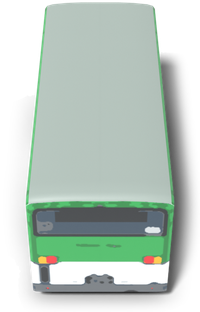
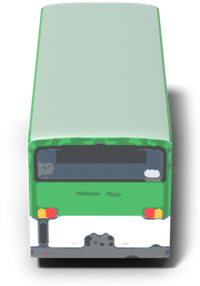
fix(map): raise the 3D bus front and tilt the driver camera to 60 degrees

diff --git a/lib/presentation/widgets/map/trip_camera_config.dart b/lib/presentation/widgets/map/trip_camera_config.dart
@@ -10,9 +10,9 @@ enum TripMode { driver, passenger }
 abstract final class TripCameraConfig {
   static const double _driverZoom = 18.5;
   static const double _passengerZoom = 15;
-  /// Mesma inclinação usada para renderizar o ônibus 3D (assets/images),
-  /// para o desenho combinar com a perspectiva do mapa.
-  static const double _driverTilt = 50;
+  /// Próxima da inclinação usada para renderizar o ônibus 3D
+  /// (assets/images), para o desenho combinar com a perspectiva do mapa.
+  static const double _driverTilt = 60;
 
   /// Monta a câmera para o [mode] centrada em [position]. [heading] é o
   /// rumo (bearing) em graus (0-360); só gira o mapa no modo motorista.

diff --git a/lib/presentation/providers/map_icon_providers.dart b/lib/presentation/providers/map_icon_providers.dart
@@ -10,7 +10,7 @@ const String kBus3dAsset = 'assets/images/bus_3d.png';
 
 /// Ponto da imagem [kBus3dAsset] que fica sobre a posição do GPS: o centro
 /// do ônibus no chão (calculado na renderização do modelo 3D).
-const Offset kBus3dAnchor = Offset(0.5, 0.59);
+const Offset kBus3dAnchor = Offset(0.5, 0.66);
 
 /// Conjunto de ícones customizados usados nos mapas.
 class MapMarkerIcons {

diff --git a/test/presentation/widgets/map/trip_camera_config_test.dart b/test/presentation/widgets/map/trip_camera_config_test.dart
@@ -14,7 +14,7 @@ void main() {
       );
 
       expect(camera.target, position);
-      expect(camera.tilt, 50);
+      expect(camera.tilt, 60);
       expect(camera.bearing, 128);
       expect(camera.zoom, 18.5);
     });
